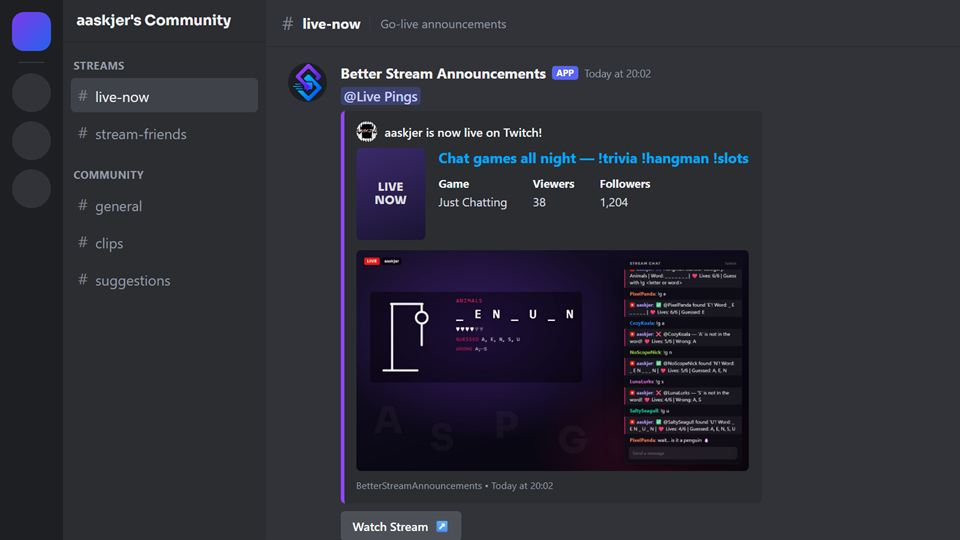
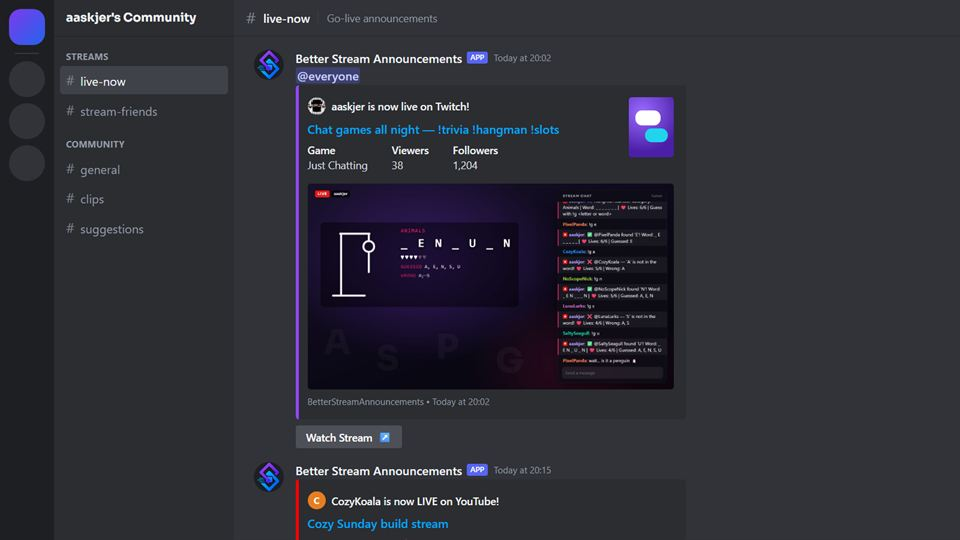
Rebuild the Discord embed in the Better Stream Announcements scene
The mockup now follows what the extension actually sends and how
Discord draws it: @everyone as the message, the author line with the
avatar, the stream title as the linked title, Game, Viewers and
Followers as inline fields, the game's box art as the thumbnail in the
top right corner, the stream preview as the image, the footer with its
timestamp and the Watch Stream button. The streamer-friend post below
uses the extension's "is now LIVE on YouTube!" wording.

Changed region(s): [[0.25, 0.0889, 0.7812, 1.0], [0.0, 0.0, 0.5312, 0.4741], [0.0625, 0.5037, 0.1875, 0.5333]]

diff --git a/_scenes/better-stream-announcements.html b/_scenes/better-stream-announcements.html
@@ -8,45 +8,55 @@
   body { font-family: 'Segoe UI', 'Segoe UI Emoji', system-ui, sans-serif; }
   .app { display: flex; width: 1280px; height: 720px; background: #1e1f22; zoom: 1.25; }
 
-  .rail { width: 84px; padding: 16px 0; display: flex; flex-direction: column; align-items: center; gap: 12px; }
-  .rail i { width: 52px; height: 52px; border-radius: 50%; background: #313338; }
+  .rail { width: 72px; padding: 12px 0; display: flex; flex-direction: column; align-items: center; gap: 8px; }
+  .rail i { width: 48px; height: 48px; border-radius: 50%; background: #313338; }
   .rail i.on { border-radius: 16px; background: linear-gradient(135deg, #7c3aed, #2563eb); }
-  .rail hr { width: 34px; border: 0; border-top: 2px solid #35373c; margin: 2px 0; }
+  .rail hr { width: 32px; border: 0; border-top: 2px solid #35373c; margin: 2px 0; }
 
-  .side { width: 270px; background: #2b2d31; display: flex; flex-direction: column; }
-  .server { padding: 18px 18px; font: 700 19px/1 'Sora', sans-serif; color: #f2f3f5; border-bottom: 1px solid #1f2023; }
-  .group { margin: 22px 14px 6px; color: #949ba4; font-size: 14px; font-weight: 700; letter-spacing: .04em; text-transform: uppercase; }
-  .chan { margin: 2px 10px; padding: 8px 10px; border-radius: 6px; color: #949ba4; font-size: 19px; }
-  .chan::before { content: '#'; margin-right: 10px; color: #80848e; font-size: 22px; }
+  .side { width: 240px; background: #2b2d31; display: flex; flex-direction: column; }
+  .server { padding: 16px; font: 700 16px/1 'Sora', sans-serif; color: #f2f3f5; border-bottom: 1px solid #1f2023; }
+  .group { margin: 18px 16px 4px; color: #949ba4; font-size: 12px; font-weight: 700; letter-spacing: .02em; text-transform: uppercase; }
+  .chan { margin: 1px 8px; padding: 6px 8px; border-radius: 4px; color: #949ba4; font-size: 16px; }
+  .chan::before { content: '#'; margin-right: 8px; color: #80848e; font-size: 19px; }
   .chan.on { background: #404249; color: #f2f3f5; }
 
   .main { flex: 1; display: flex; flex-direction: column; background: #313338; }
-  .top { display: flex; align-items: center; gap: 12px; height: 62px; padding: 0 22px; border-bottom: 1px solid #26272b; color: #f2f3f5; font-size: 19px; font-weight: 700; }
-  .top::before { content: '#'; color: #80848e; font-size: 26px; font-weight: 400; }
-  .top span { padding-left: 14px; border-left: 1px solid #3f4147; color: #949ba4; font-weight: 400; font-size: 16px; }
+  .top { display: flex; align-items: center; gap: 10px; height: 48px; padding: 0 16px; border-bottom: 1px solid #26272b; color: #f2f3f5; font-size: 16px; font-weight: 600; }
+  .top::before { content: '#'; color: #80848e; font-size: 22px; font-weight: 400; }
+  .top span { padding-left: 12px; border-left: 1px solid #3f4147; color: #949ba4; font-weight: 400; font-size: 14px; }
 
-  .feed { flex: 1; display: flex; flex-direction: column; gap: 22px; padding: 22px 30px 0; overflow: hidden; }
-  .post { display: flex; gap: 18px; }
-  .ava { width: 52px; height: 52px; flex: none; border-radius: 50%; background: #1e1f22 url('img/better-stream-announcements.png') center / 78% no-repeat; }
-  .who { display: flex; align-items: center; gap: 8px; margin-bottom: 6px; }
-  .who b { color: #f2f3f5; font-size: 19px; }
-  .who em { padding: 2px 6px; border-radius: 4px; background: #5865f2; color: #fff; font: 700 12px/1.2 'Segoe UI', sans-serif; font-style: normal; }
-  .who small { color: #949ba4; font-size: 14px; }
-  .ping { display: inline-block; margin-bottom: 8px; padding: 0 4px; border-radius: 4px; background: rgba(88, 101, 242, .3); color: #c9cdfb; font-size: 18px; font-weight: 600; }
+  .feed { flex: 1; display: flex; flex-direction: column; gap: 18px; padding: 18px 26px 0; overflow: hidden; }
+  .post { display: flex; gap: 16px; }
+  .ava { width: 40px; height: 40px; flex: none; border-radius: 50%; background: #1e1f22 url('img/better-stream-announcements.png') center / 78% no-repeat; }
+  .who { display: flex; align-items: center; gap: 6px; }
+  .who b { color: #f2f3f5; font-size: 16px; font-weight: 600; }
+  .who em { padding: 1px 5px; border-radius: 3px; background: #5865f2; color: #fff; font: 600 10px/1.4 'Segoe UI', sans-serif; font-style: normal; }
+  .who small { margin-left: 2px; color: #949ba4; font-size: 12px; }
+  .content { margin: 2px 0; color: #dbdee1; font-size: 16px; }
+  .ping { padding: 0 2px; border-radius: 3px; background: rgba(88, 101, 242, .3); color: #c9cdfb; font-weight: 500; }
 
-  .embed { display: grid; grid-template-columns: 1fr auto; gap: 0 18px; max-width: 640px; padding: 14px 18px 16px 16px; border-left: 5px solid var(--c); border-radius: 6px; background: #2b2d31; }
-  .author { grid-column: 1 / -1; display: flex; align-items: center; gap: 10px; margin-bottom: 8px; color: #f2f3f5; font-size: 16px; font-weight: 600; }
-  .author img { width: 28px; height: 28px; border-radius: 50%; }
-  .title { color: #00a8fc; font-size: 19px; font-weight: 700; line-height: 1.3; }
-  .desc { margin-top: 6px; color: #dbdee1; font-size: 17px; }
-  .fields { display: flex; gap: 34px; margin-top: 12px; }
-  .fields dt { color: #f2f3f5; font-size: 15px; font-weight: 700; }
-  .fields dd { margin: 3px 0 0; color: #dbdee1; font-size: 16px; }
-  .thumb { grid-row: 2 / span 2; width: 92px; height: 122px; border-radius: 6px; background: linear-gradient(160deg, #3b2a6b, #1a1433); display: grid; place-items: center; color: rgba(255, 255, 255, .85); font: 800 15px/1.2 'Sora', sans-serif; text-align: center; padding: 8px; }
-  .shot { grid-column: 1 / -1; margin-top: 14px; width: 100%; aspect-ratio: 16 / 9; border-radius: 6px; background: #000 url('../assets/img/scenes/hangman-game.jpg') center / cover; }
-  .foot { grid-column: 1 / -1; margin-top: 10px; color: #949ba4; font-size: 13px; }
-  .btn { display: inline-flex; align-items: center; gap: 8px; margin-top: 10px; padding: 9px 16px; border-radius: 5px; background: #4e5058; color: #fff; font-size: 16px; font-weight: 600; }
-  .btn::after { content: '↗'; font-size: 15px; }
+  /* Discord's rich embed: text on the left, the thumbnail top right, image and footer across */
+  .embed { display: grid; grid-template-columns: minmax(0, 1fr) auto; width: 520px; margin-top: 2px; padding: 8px 16px 16px 12px; border-left: 4px solid var(--c); border-radius: 4px; background: #2b2d31; }
+  .embed > * { grid-column: 1; min-width: 0; }
+  .e-author { display: flex; align-items: center; gap: 8px; margin-top: 8px; color: #f2f3f5; font-size: 14px; font-weight: 600; }
+  .e-author img, .e-author i { width: 24px; height: 24px; border-radius: 50%; }
+  .e-author i { display: grid; place-items: center; background: #e67e22; color: #fff; font: 700 12px/1 'Segoe UI', sans-serif; font-style: normal; }
+  .e-title { margin-top: 8px; color: #00a8fc; font-size: 16px; font-weight: 600; line-height: 1.3; }
+  .e-desc { margin-top: 8px; color: #dbdee1; font-size: 14px; line-height: 1.4; }
+  .e-fields { display: grid; grid-template-columns: repeat(3, minmax(0, max-content)); gap: 8px 32px; margin: 8px 0 0; }
+  .e-fields dt { color: #f2f3f5; font-size: 14px; font-weight: 600; }
+  .e-fields dd { margin: 2px 0 0; color: #dbdee1; font-size: 14px; }
+  /* the game's box art, which Discord draws at most 80px tall in the top right corner */
+  .e-thumb { grid-column: 2; grid-row: 1 / 4; align-self: start; position: relative; width: 60px; height: 80px; margin: 8px 0 0 16px; border-radius: 4px; overflow: hidden;
+    background: radial-gradient(circle at 30% 25%, #9b6bff, #4b1fa8 72%); }
+  .e-thumb::before, .e-thumb::after { content: ''; position: absolute; border-radius: 9px; }
+  .e-thumb::before { left: 9px; top: 18px; width: 34px; height: 20px; background: #fff; }
+  .e-thumb::after { right: 8px; top: 42px; width: 30px; height: 18px; background: #22d3ee; }
+  .e-image { grid-column: 1 / -1; margin-top: 16px; width: 100%; aspect-ratio: 16 / 9; border-radius: 4px; background: #000 url('../assets/img/scenes/hangman-game.jpg') center / cover; }
+  .e-image.yt { background: linear-gradient(135deg, #3a2414, #1c120a 60%), #000; }
+  .e-foot { grid-column: 1 / -1; margin-top: 8px; color: #949ba4; font-size: 12px; }
+  .btn { display: inline-flex; align-items: center; gap: 8px; margin-top: 8px; padding: 6px 14px; border-radius: 3px; background: #4e5058; color: #fff; font-size: 14px; font-weight: 500; }
+  .btn::after { content: '↗'; font-size: 13px; }
 </style>
 </head>
 <body>
@@ -69,20 +79,18 @@
         <div class="ava"></div>
         <div>
           <div class="who"><b>Better Stream Announcements</b><em>APP</em><small>Today at 20:02</small></div>
-          <span class="ping">@Live Pings</span>
+          <div class="content"><span class="ping">@everyone</span></div>
           <div class="embed" style="--c:#9146FF">
-            <div class="author"><img src="../assets/img/avatar.png" alt="">aaskjer is now live on Twitch!</div>
-            <div>
-              <div class="title">Chat games all night — !trivia !hangman !slots</div>
-              <dl class="fields">
-                <div><dt>Game</dt><dd>Just Chatting</dd></div>
-                <div><dt>Viewers</dt><dd>38</dd></div>
-                <div><dt>Followers</dt><dd>1,204</dd></div>
-              </dl>
-            </div>
-            <div class="thumb">LIVE<br>NOW</div>
-            <div class="shot"></div>
-            <div class="foot">BetterStreamAnnouncements • Today at 20:02</div>
+            <div class="e-author"><img src="../assets/img/avatar.png" alt="">aaskjer is now live on Twitch!</div>
+            <div class="e-title">Chat games all night — !trivia !hangman !slots</div>
+            <dl class="e-fields">
+              <div><dt>Game</dt><dd>Just Chatting</dd></div>
+              <div><dt>Viewers</dt><dd>38</dd></div>
+              <div><dt>Followers</dt><dd>1,204</dd></div>
+            </dl>
+            <div class="e-thumb" aria-hidden="true"></div>
+            <div class="e-image"></div>
+            <div class="e-foot">BetterStreamAnnouncements • Today at 20:02</div>
           </div>
           <span class="btn">Watch Stream</span>
         </div>
@@ -92,12 +100,11 @@
         <div>
           <div class="who"><b>Better Stream Announcements</b><em>APP</em><small>Today at 20:15</small></div>
           <div class="embed" style="--c:#FF0000">
-            <div class="author"><img src="../assets/img/avatar.png" alt="" style="filter:hue-rotate(160deg) saturate(.6)">CozyKoala is now live on YouTube!</div>
-            <div>
-              <div class="title">Cozy Sunday build stream</div>
-              <div class="desc"><i>Go check them out!</i> 🔥</div>
-            </div>
-            <div class="foot">BetterStreamAnnouncements • Today at 20:15</div>
+            <div class="e-author"><i>C</i>CozyKoala is now LIVE on YouTube!</div>
+            <div class="e-title">Cozy Sunday build stream</div>
+            <div class="e-desc"><i>Go check them out!</i> 🔥</div>
+            <div class="e-image yt"></div>
+            <div class="e-foot">BetterStreamAnnouncements • Today at 20:15</div>
           </div>
         </div>
       </article>
